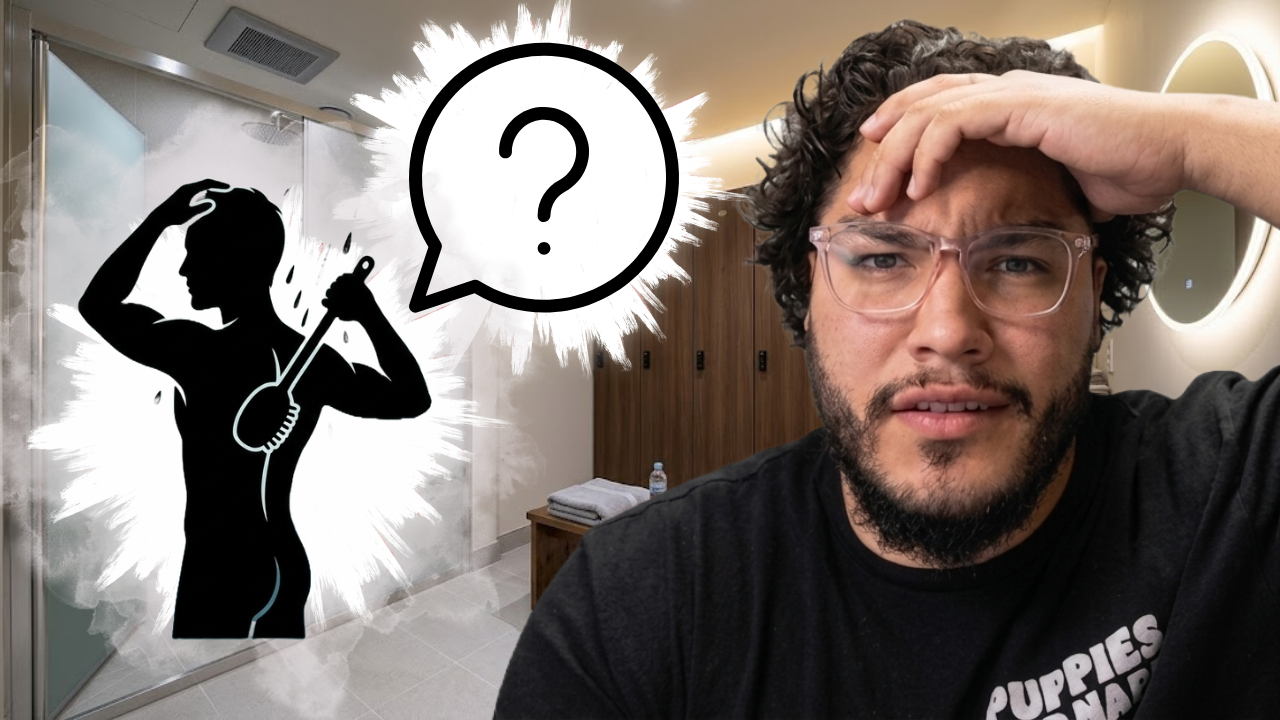
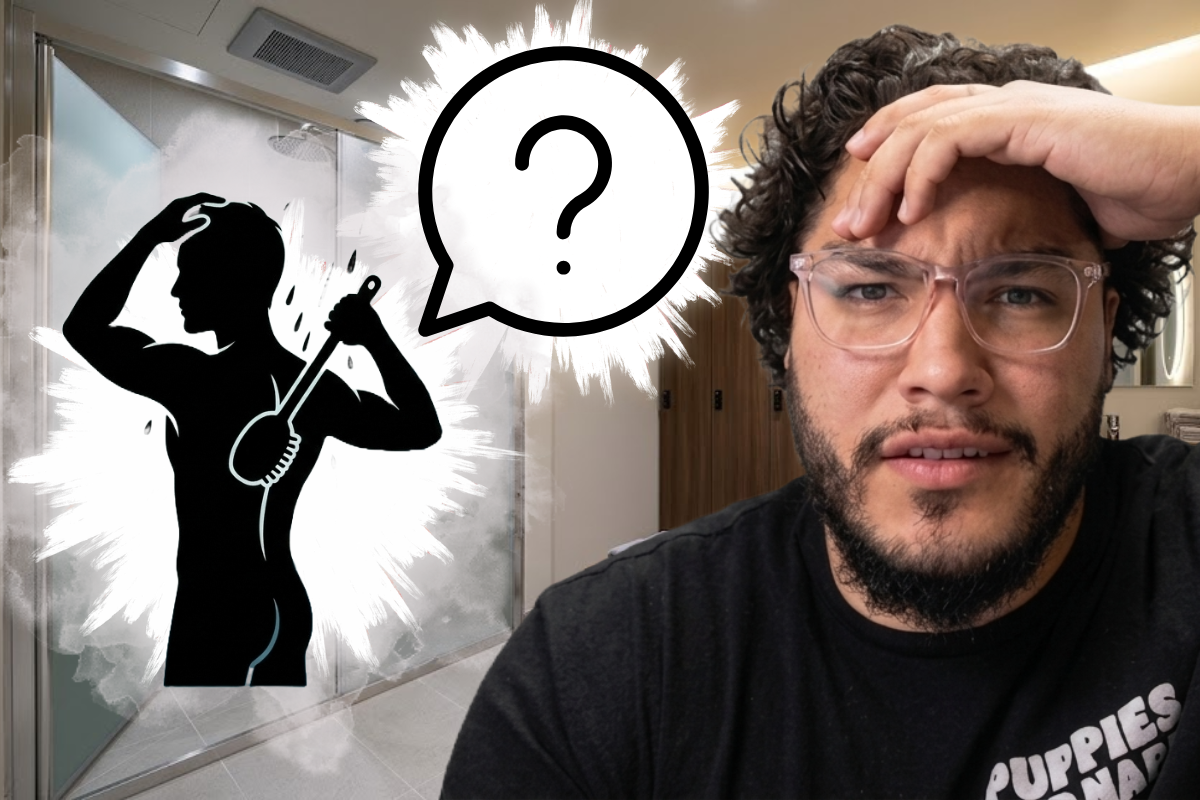
updated featured thumbs

diff --git a/src/data/featuredNfts.ts b/src/data/featuredNfts.ts
@@ -163,7 +163,7 @@ export function withFeaturedHydration<T extends NFT>(nft: T): T {
 export const FEATURED_NFTS: NFT[] = [
   {
     name: 'BACKROOMS EP 1 - Will',
-    image: '/backrooms1.PNG',
+    image: '/backrooms1.png',
     contract: 'pending',
     tokenId: 'backrooms-ep1-will',
     network: 'base',
